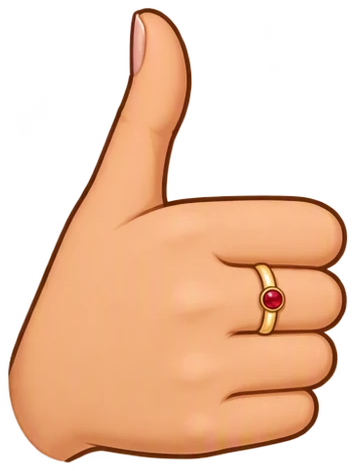
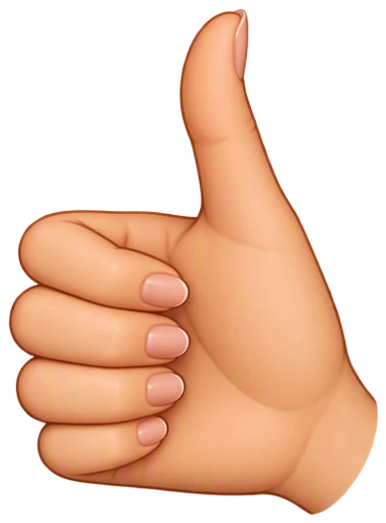
Replace hand sprites with the new set (wave, like, peace); keep on-screen sizes, tint measured to match skin

diff --git a/aiym-engine/src/avatar/Arm.js b/aiym-engine/src/avatar/Arm.js
@@ -12,13 +12,14 @@ const ARM_POSE = {
 };
 
 // Кисть — готовый рисунок (спрайт), а не анимация пальцев: привет, лайк, пис (assets/hands/*.png).
-// px — размер рисунка в пикселях, anchor — где на рисунке запястье (доли ширины/высоты от центра, y вверх),
-// forward — куда у рисунка «смотрит» кисть (от запястья). Один масштаб на все рисунки, чтобы рука была одного размера.
-const PX = 0.00126;            // единиц сцены на пиксель рисунка (высота ладони с пальцами ≈ 0.95)
+// px — размер рисунка в пикселях; h — высота рисунка в единицах сцены (подобрана, чтобы рука была в масштабе тела);
+// anchor — где на рисунке запястье (доли ширины/высоты от центра, y вверх); forward — куда «смотрит» кисть от запястья;
+// facing — куда кулак смотрит на самом рисунке ('left': для руки слева на экране зеркалить не нужно); tint — цвет, подобранный замером:
+// кожа кисти на экране = кожа лица и предплечья (≈ 234,153,95). Пересчитать: tools/cut_hands.py
 const SPRITES = {
-  open: { file: 'wave', px: [418, 565], anchor: [0.014, -0.46], forward: [0, 1] },
-  peace: { file: 'peace', px: [263, 587], anchor: [0.059, -0.46], forward: [0, 1] },
-  like: { file: 'like', px: [356, 471], anchor: [-0.285, -0.345], forward: [0.866, 0.5] },   // кулак смотрит вправо-вверх, запястье внизу слева
+  open: { file: 'wave', px: [466, 616], h: 0.712, anchor: [0.004, -0.465], forward: [0, 1], tint: '#f7e0bd' },
+  peace: { file: 'peace', px: [268, 612], h: 0.74, anchor: [0.017, -0.465], forward: [0, 1], tint: '#f9e5c2' },
+  like: { file: 'like', px: [386, 523], h: 0.594, anchor: [0.442, -0.299], forward: [-0.879, 0.477], tint: '#fbe5c2', facing: 'left' },
 };
 
 const smooth = (x) => { x = Math.min(Math.max(x, 0), 1); return x * x * (3 - 2 * x); };
@@ -97,9 +98,10 @@ export function buildArm(sx, mats, chest, restArm) {
       spriteMat.map = tex[armPose] ?? tex.open;
       const th = sx * (P.T * r + swing);                                      // поворот предплечья от «вниз»
       const fAngle = Math.atan2(-Math.cos(th), Math.sin(th));                 // направление предплечья (от локтя к кисти)
-      const mirror = armPose === 'like' && sx < 0;                            // кулак «лайка» должен смотреть наружу
+      const mirror = def.facing === 'left' ? sx > 0 : false;                  // кулак «лайка» должен смотреть наружу (на рисунке — влево)
       const rot = fAngle - Math.atan2(def.forward[1], mirror ? -def.forward[0] : def.forward[0]);
-      const k = PX * smooth(r * 1.4), W = def.px[0] * k, Hh = def.px[1] * k;
+      const k = (def.h / def.px[1]) * smooth(r * 1.4), W = def.px[0] * k, Hh = def.px[1] * k;
+      spriteMat.color.set(def.tint);
       sprite.scale.set((mirror ? -1 : 1) * W, Hh, 1);
       sprite.rotation.z = rot;
       const ax = (mirror ? -1 : 1) * def.anchor[0] * W, ay = def.anchor[1] * Hh;
